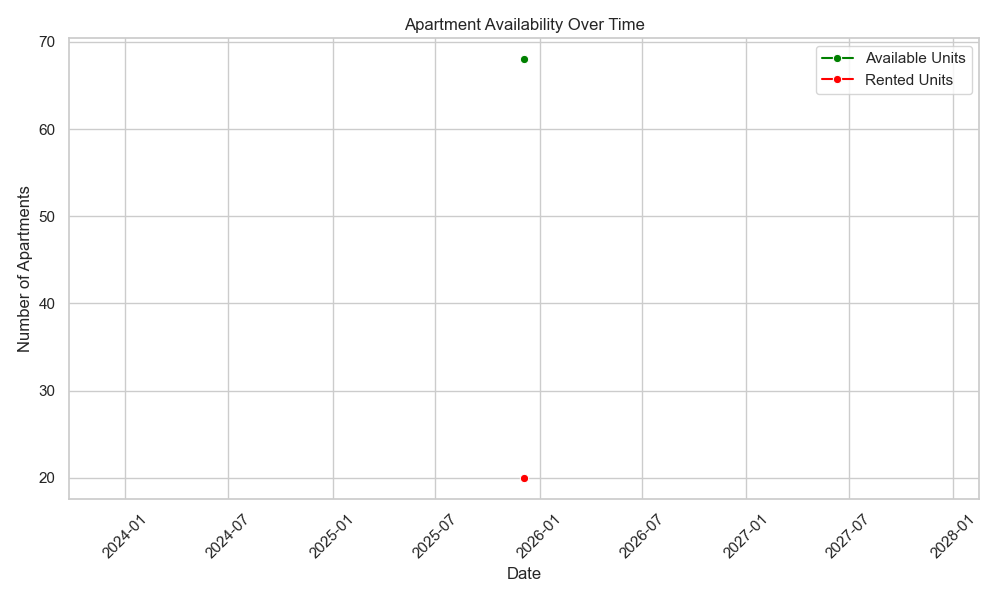
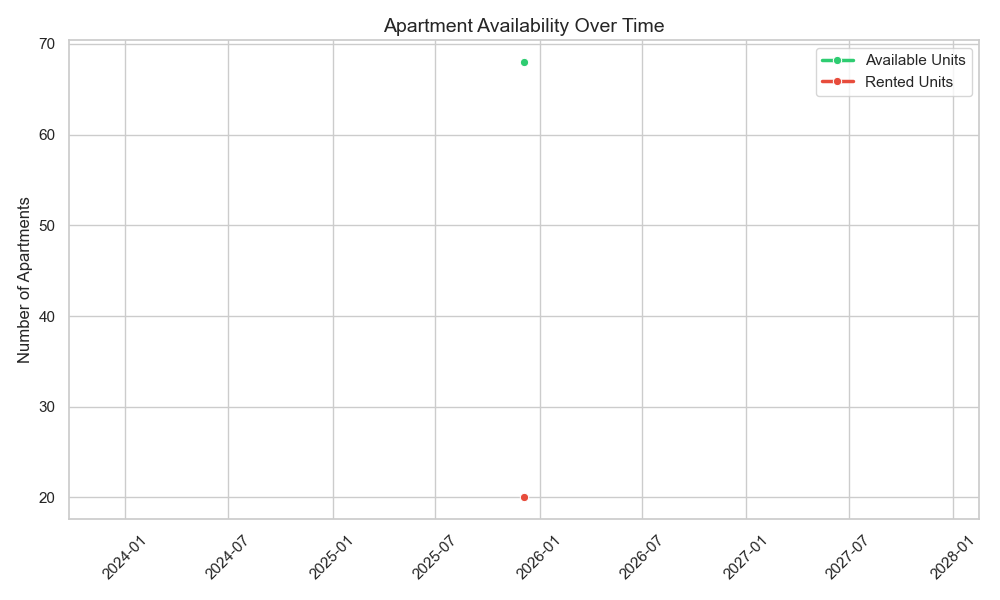
changed rent_distr image from boxplot to swarm-plot

diff --git a/src/visualizer.py b/src/visualizer.py
@@ -22,7 +22,7 @@ def generate_plots():
     if not os.path.exists(PLOT_DIR):
         os.makedirs(PLOT_DIR)
 
-    # Set Style
+    # Set Global Style
     sns.set_theme(style="whitegrid")
     
     # --- PLOT 1: Occupancy Over Time ---
@@ -32,27 +32,44 @@ def generate_plots():
     occupancy = df.groupby(['Date_Checked', 'Status']).size().unstack(fill_value=0)
     
     if 'Available' in occupancy.columns:
-        sns.lineplot(data=occupancy, x=occupancy.index, y='Available', marker='o', label='Available Units', color='green')
+        sns.lineplot(data=occupancy, x=occupancy.index, y='Available', marker='o', label='Available Units', color='#2ecc71', linewidth=2.5)
     if 'Occupied' in occupancy.columns:
-        sns.lineplot(data=occupancy, x=occupancy.index, y='Occupied', marker='o', label='Rented Units', color='red')
+        sns.lineplot(data=occupancy, x=occupancy.index, y='Occupied', marker='o', label='Rented Units', color='#e74c3c', linewidth=2.5)
         
-    plt.title('Apartment Availability Over Time')
+    plt.title('Apartment Availability Over Time', fontsize=14)
     plt.ylabel('Number of Apartments')
-    plt.xlabel('Date')
+    plt.xlabel('') # Date is obvious, empty label is cleaner
     plt.xticks(rotation=45)
     plt.tight_layout()
     plt.savefig(os.path.join(PLOT_DIR, f"occupancy_trend_{datetime.now().date()}.png"))
     print("Saved Occupancy Plot.")
 
-    # --- PLOT 2: Price Distribution (Available Units) ---
+    # --- PLOT 2: Price Distribution (Swarm Plot) ---
     # Only useful if we have available units
     available_df = df[df['Status'] == 'Available']
     
     if not available_df.empty:
         plt.figure(figsize=(10, 6))
-        sns.boxplot(data=available_df, x='Rooms', y='Total_Rent')
-        plt.title('Rent Price Distribution by Room Count')
+        
+        # Swarmplot: Draws a dot for every apartment.
+        # hue='Floor': Colors the dots based on which floor they are on.
+        sns.swarmplot(
+            data=available_df, 
+            x='Rooms', 
+            y='Total_Rent', 
+            hue='Floor',      # Color coded by floor
+            size=7,           # Size of the dots
+            palette='viridis' # Color scheme
+        )
+        
+        plt.title('Current Rent Prices (Every Dot is an Apartment)', fontsize=14)
         plt.ylabel('Total Rent (€)')
+        plt.xlabel('Number of Rooms')
+        
+        # Move the legend outside the plot so it doesn't cover dots
+        plt.legend(title='Floor', bbox_to_anchor=(1.05, 1), loc='upper left')
+        
+        plt.tight_layout()
         plt.savefig(os.path.join(PLOT_DIR, f"rent_distribution_{datetime.now().date()}.png"))
         print("Saved Price Distribution Plot.")
     
